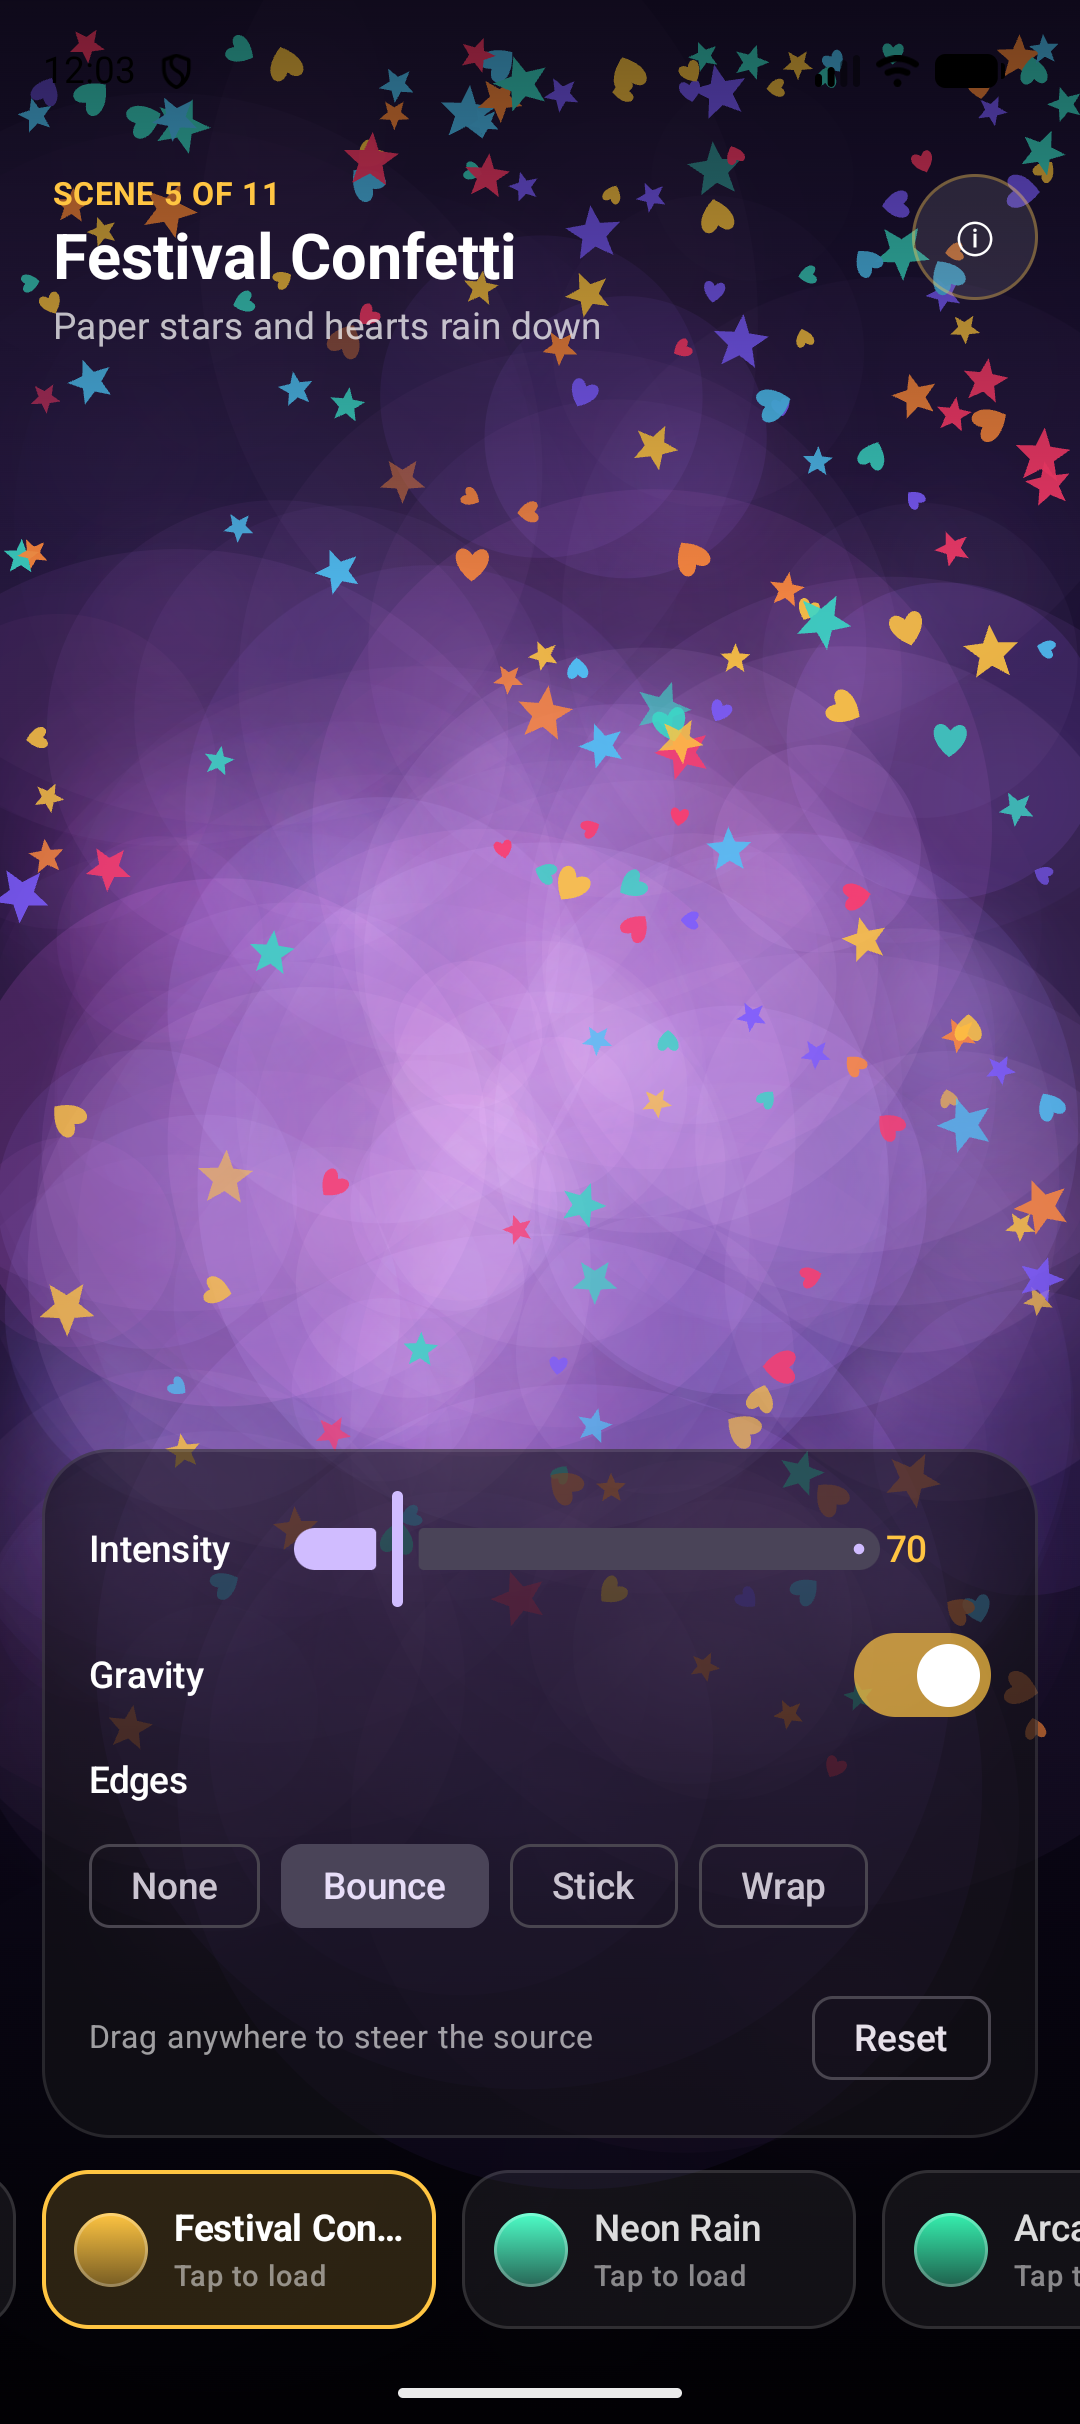
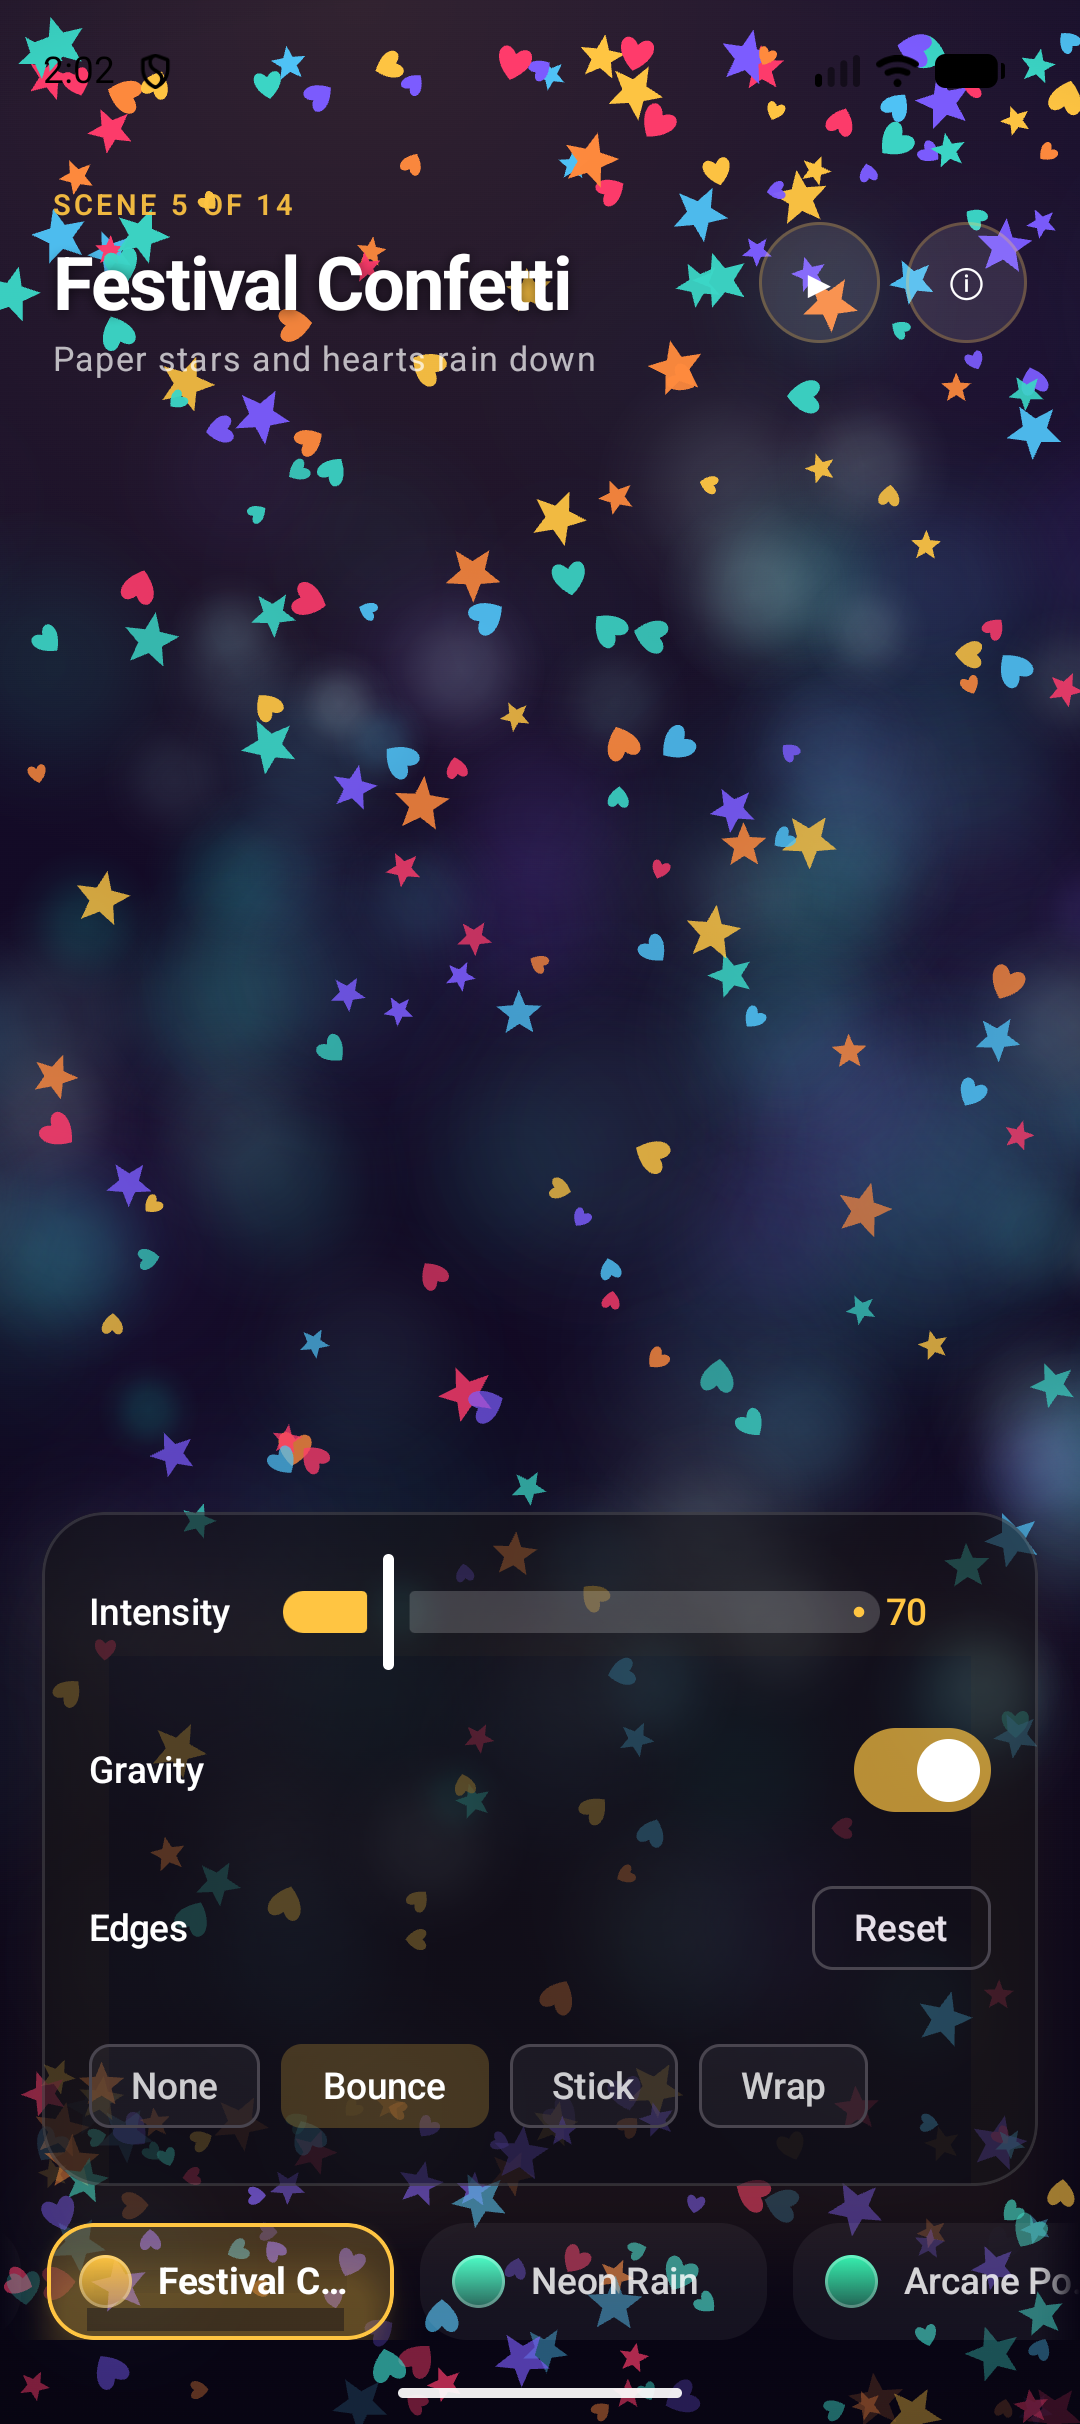
Refine backdrop layering and harden ambient-motion remember ordering
Two verified quality fixes on top of the initial showcase.

Backdrop layering (visual correctness)
- Add a per-scene `SceneSpec.backdrop` flag (default true). The parallax
  "dust" layer uses additive Screen blend, which read wrong as a faint glow
  haze behind the opaque SrcOver "paper" scenes.
- Disable it for Festival Confetti, Emoji Rain, and Cherry Blossom so their
  solid stars/hearts/glyphs sit on a clean backdrop.
- The backdrop emitter stays mounted but with birth-rate 0 on those scenes,
  so there is no add/remove churn (and no particle-pool reset) on switch.
- Refresh the confetti screenshot to the clean, haze-free render.

Ambient motion (Compose correctness)
- rememberAmbientOffset created its InfiniteTransition AFTER an early return
  gated on the drag/hand-off gain — a conditional remember whose slot count
  varied with runtime state. A long drag (>1.2s) that drove gain to 0 could
  tear the transition down and later recreate it, resetting its phase.
- Create the transition and gain unconditionally; the `gain <= 0` early
  return now happens after all remembers, so the slot table is stable.

Verified: assembleDebug + testDebugUnitTest SUCCESSFUL; on-device confetti
backdrop confirmed clean; long-drag + tap-burst + scene-switch crash-free.

diff --git a/app/src/main/java/com/example/myapplication1/studio/StudioMotion.kt b/app/src/main/java/com/example/myapplication1/studio/StudioMotion.kt
@@ -52,14 +52,9 @@ private const val TWO_PI = (2.0 * PI).toFloat()
 fun rememberAmbientOffset(motion: SceneMotion, active: Boolean): DpOffset {
     if (motion is SceneMotion.None) return DpOffset.Zero
 
-    // Smooth hand-off so the living sway fades out while dragging and fades back in after.
-    val gain by animateFloatAsState(
-        targetValue = if (active) 1f else 0f,
-        animationSpec = tween(durationMillis = 1200),
-        label = "ambientGain",
-    )
-    if (gain <= 0.001f) return DpOffset.Zero
-
+    // NB: create the transition and gain UNCONDITIONALLY (no early return between them) so the
+    // remembered slot count is stable across recompositions — otherwise a long drag that drives
+    // gain to 0 would tear down and later recreate the transition, resetting its phase.
     val transition = rememberInfiniteTransition(label = "ambient")
     val phase by transition.animateFloat(
         initialValue = 0f,
@@ -70,6 +65,13 @@ fun rememberAmbientOffset(motion: SceneMotion, active: Boolean): DpOffset {
         ),
         label = "phase",
     )
+    // Smooth hand-off so the living sway fades out while dragging and fades back in after.
+    val gain by animateFloatAsState(
+        targetValue = if (active) 1f else 0f,
+        animationSpec = tween(durationMillis = 1200),
+        label = "ambientGain",
+    )
+    if (gain <= 0.001f) return DpOffset.Zero
 
     return when (motion) {
         is SceneMotion.None -> DpOffset.Zero

diff --git a/app/src/main/java/com/example/myapplication1/studio/SceneSpec.kt b/app/src/main/java/com/example/myapplication1/studio/SceneSpec.kt
@@ -95,6 +95,12 @@ data class SceneSpec(
     val emojis: List<String> = emptyList(),
     /** Ambient drift applied to the emitter when the user isn't steering it. */
     val motion: SceneMotion = SceneMotion.None,
+    /**
+     * Whether to render the faint parallax "dust" layer behind this scene. Disabled for the
+     * opaque SrcOver "paper" scenes (confetti / emoji / blossom) where an additive glow haze
+     * behind solid shapes reads wrong.
+     */
+    val backdrop: Boolean = true,
 ) {
     /** True when the scene rotates its (non-circle) particles — used to orient streaks. */
     val rotates: Boolean get() = rotation.first != 0 || rotation.last != 0

diff --git a/app/src/main/java/com/example/myapplication1/studio/StudioStage.kt b/app/src/main/java/com/example/myapplication1/studio/StudioStage.kt
@@ -122,7 +122,9 @@ internal fun StudioStage(
             gravityStrength = animGravity,
             edge = edge,
         )
-        val backdropPps = (animPps * 0.18f).roundToInt().coerceIn(4, 14)
+        // Keep the backdrop emitter mounted (no add/remove churn on switch), but zero its
+        // birth-rate on opaque "paper" scenes so no additive dust hazes behind solid shapes.
+        val backdropPps = if (scene.backdrop) (animPps * 0.18f).roundToInt().coerceIn(4, 14) else 0
         val backdropConfig = scene.toBackdropConfig(
             center = DpOffset(w / 2, h / 2),
             regionSize = DpSize(w, h),

diff --git a/app/src/main/java/com/example/myapplication1/studio/SceneCatalog.kt b/app/src/main/java/com/example/myapplication1/studio/SceneCatalog.kt
@@ -183,6 +183,7 @@ object SceneCatalog {
             alphaEasing = EaseIn, scaleEasing = FastOutSlowInEasing,
             gradient = listOf(hex("#FF1A1033"), hex("#FF120A24"), hex("#FF080513")),
             accent = hex("#FFFFC542"),
+            backdrop = false,
         ),
         SceneSpec(
             id = "neonRain",
@@ -270,6 +271,7 @@ object SceneCatalog {
             gradient = listOf(hex("#FF0B0F2A"), hex("#FF14193D"), hex("#FF050713")),
             emojis = listOf("🎉", "✨", "💖", "🌈", "⭐", "🍭", "🎈", "🦄", "🍬", "💫"),
             accent = hex("#FFFFC542"),
+            backdrop = false,
         ),
         SceneSpec(
             id = "risingBubbles",
@@ -412,6 +414,7 @@ object SceneCatalog {
             alphaEasing = EaseOut, scaleEasing = FastOutSlowInEasing,
             gradient = listOf(hex("#FF1A0E16"), hex("#FF2A1422"), hex("#FF120810")),
             accent = hex("#FFFFB3D1"),
+            backdrop = false,
         ),
         SceneSpec(
             id = "auroraVeil",